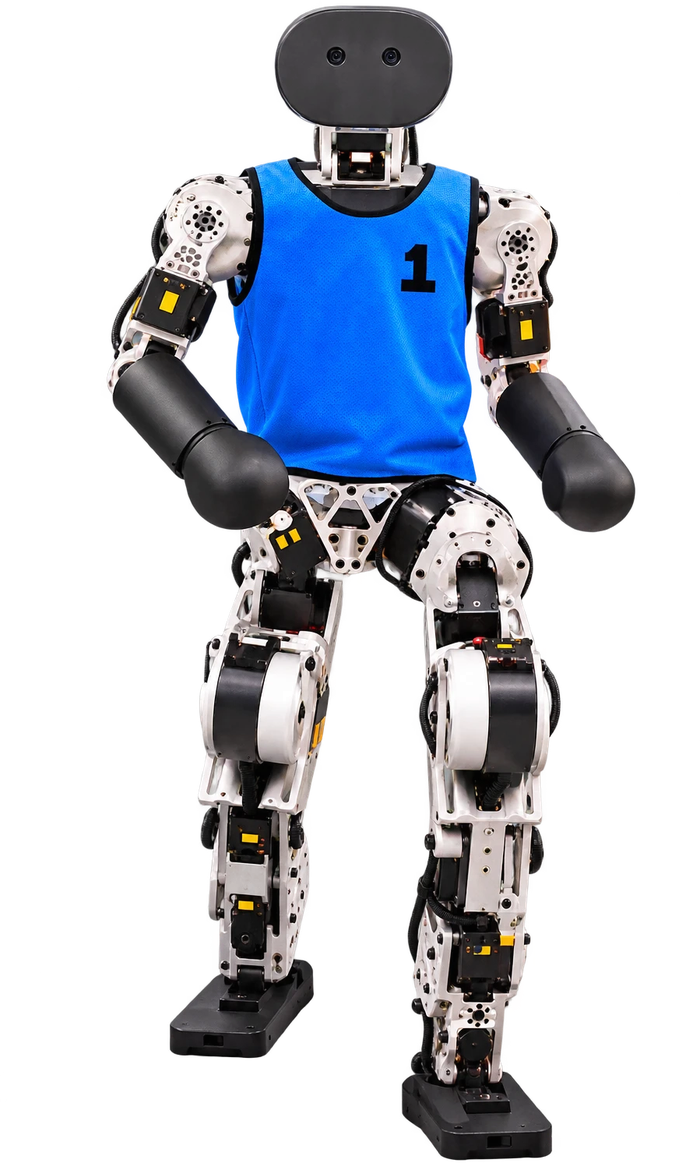
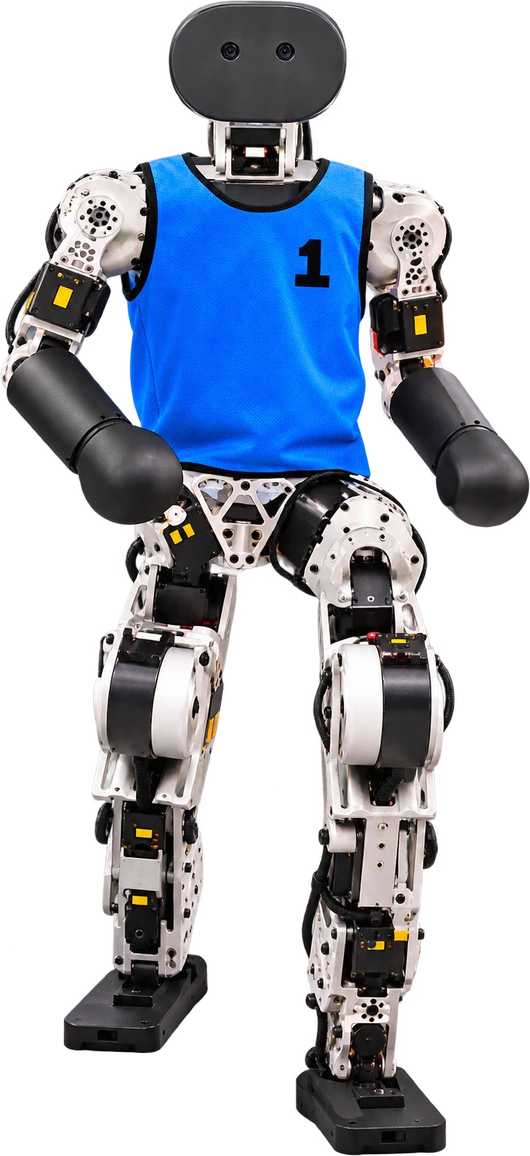
표지 좌표계 단순화 + 배경 잘림 제거
- 에셋 투명 여백 제거(그림 변경 없음), .kv-stage 무대 도입
- 로봇/사람/제목 위치를 전부 화면 기준 단순 %로 변경 (숫자만 고치면 됨)
- 배경 cover -> 100% 100% (잘리지 않고 화면에 맞춤)

diff --git a/index.html b/index.html
@@ -45,52 +45,49 @@
   .when-v{font-size:clamp(12.5px,3.5vw,14.5px);font-weight:700;line-height:1.5;white-space:nowrap}
   .sign{display:block;width:190px;max-width:60%;margin:32px auto 0}
 
-  /* 표지: 포스터 구성을 비율(%)로 배치 — 화면 크기와 무관하게 위치 고정 */
+  /* ===== 표지 =====
+     .kv-stage = 포스터 무대. 기준화면 375x812 비율로 고정되어 있어서
+     아래 숫자들은 전부 "화면 기준 %" 로 읽으면 된다. (1cqh = 화면 높이 1%)
+     위치/크기 조정은 아래 숫자만 바꾸면 됨. */
   .cover{position:relative;width:100%;overflow:hidden;background:#eef4fb;container-type:inline-size}
   .kv{position:relative;width:100%;height:100svh;min-height:560px;
-    /* u = 포스터 기준 1% 높이. 세로로 긴 화면에서는 가로폭에 맞춰 묶어 그룹이 잘리지 않게 함 */
-    --u:min(1svh,2.4cqw);
-    /* 후원사 패널 윗변 = 바닥에서 3.6% + 패널높이(18cqw) */
-    --pt:calc(3.6% + 18cqw);
-    background:#dce9f7 url(kv/bg-campus.jpg) center/cover no-repeat}
+    background:#dce9f7 url(kv/bg-campus.jpg) center/100% 100% no-repeat}
+  .kv-stage{position:absolute;left:50%;bottom:0;transform:translateX(-50%);
+    height:min(100%,216.5cqw);aspect-ratio:375/812;container-type:size}
+  .kv-stage img{position:absolute;width:auto;max-width:none}
+
   /* 좌하단 대각 띠 */
   .kv-stripe{position:absolute;inset:0;pointer-events:none;
     background:linear-gradient(118deg,rgba(26,86,194,.85) 0 7%,rgba(255,255,255,0) 7.2%)}
   .kv-stripe2{position:absolute;inset:0;pointer-events:none;
     background:linear-gradient(118deg,rgba(255,255,255,.75) 0 14%,rgba(255,255,255,0) 14.2%)}
+
+  /* ── 상단 ── */
   .kv-brand{position:absolute;left:6%;top:3.2%;font-size:3.1cqw;letter-spacing:.42em;
     font-weight:600;color:#17357f}
-  .kv-kw{position:absolute;right:5%;top:2.6%;width:20.8%}
-  .kv-title{position:absolute;right:6%;top:calc(11.5*var(--u));height:calc(24*var(--u));width:auto}
-  /* 로봇: 포스터처럼 왼쪽 큰 로봇 + 가운데로 모인 세 대 */
-  /* 레퍼런스 포스터의 피사체 높이·중심좌표를 그대로 옮긴 값 (단위 u) */
-  .kv-r,.kv-people{position:absolute;left:50%;width:auto;max-width:none}
-  .kv-ra{height:calc(59.566*var(--u));margin-left:calc(-28.428*var(--u));
-         bottom:calc(var(--pt) + 3.917*var(--u))}
-  .kv-rb{height:calc(22.337*var(--u));margin-left:calc(-8.909*var(--u));
-         bottom:calc(var(--pt) + 4.624*var(--u))}
-  .kv-people{height:calc(24.869*var(--u));margin-left:calc(-4.800*var(--u));
-         bottom:calc(var(--pt) + 3.789*var(--u))}
-  .kv-rc{height:calc(16.701*var(--u));margin-left:calc(1.995*var(--u));
-         bottom:calc(var(--pt) + 2.571*var(--u))}
-  .kv-rd{height:calc(16.985*var(--u));margin-left:calc(5.458*var(--u));
-         bottom:calc(var(--pt) + 4.377*var(--u))}
+  .kv-stage .kv-kw{position:absolute;right:5%;top:2.6%;width:20.8%}
 
-  /* 하단 선·일시·장소 (포스터 좌표/색/크기) */
+  /* ── 로봇·사람 (높이 / 왼쪽 / 바닥) ── */
+  .kv-ra    {height:59.40%;left: 3.58%;bottom:15.91%}
+  .kv-rb    {height:21.50%;left:37.43%;bottom:17.31%}
+  .kv-people{height:23.63%;left:39.61%;bottom:16.71%}
+  .kv-rc    {height:16.60%;left:57.62%;bottom:14.51%}
+  .kv-rd    {height:16.80%;left:62.40%;bottom:16.41%}
 
-  .kv-rule{display:block;width:100%;height:calc(.139*var(--u));margin:calc(.277*var(--u)) 0 calc(.185*var(--u));background:linear-gradient(90deg,#429eee 0%,#3fa0f7 10%,#6ddff7 25%,#4babf1 38%,#53cbf7 50%,#4eb4f6 62%,#40b2fa 78%,#444fab 88%,#4453c7 100%)}
+  /* ── 제목 / 일시·장소 ── */
+  .kv-title{height:24%;right:6%;top:11.5%}
+  .kv-foot{position:absolute;right:6%;top:36.6%;text-align:right;color:#1e2a89}
   .kv-foot p{margin:0;font-weight:800;line-height:1.35}
+  .kv-date{margin:0;font-weight:800;font-size:1.87cqh;letter-spacing:-.01em}
+  .kv-place{margin:.23cqh 0 0;font-weight:700;font-size:1.76cqh}
+  .kv-rule{display:block;width:100%;height:.14cqh;margin:.28cqh 0 .19cqh;background:linear-gradient(90deg,#429eee 0%,#3fa0f7 10%,#6ddff7 25%,#4babf1 38%,#53cbf7 50%,#4eb4f6 62%,#40b2fa 78%,#444fab 88%,#4453c7 100%)}
+
+  /* ── 하단 후원사 패널 (화면 전체 폭 기준) ── */
   .kv-bottom{position:absolute;left:4.6%;right:4.6%;bottom:3.6%}
-  .kv-foot{position:absolute;right:6%;top:calc(36.6*var(--u));text-align:right;color:#1e2a89}
-  .kv-date{margin:0;font-weight:800;font-size:calc(1.873*var(--u));letter-spacing:-.01em}
-  /* 하단 후원사 패널 */
   .kv-spon{display:flex;flex-direction:column;gap:2.2cqw;background:rgba(255,255,255,.5);border-radius:1.2cqw;padding:2.2cqw 3cqw}
-
-
   .kv-spon-row{display:flex;align-items:center;justify-content:space-between;gap:2.4cqw}
   .kv-spon-row img{height:4.6cqw;width:auto;max-width:100%;display:block;flex:0 1 auto;object-fit:contain}
   .kv-spon-row img.sq{height:6.8cqw}
-  .kv-place{margin:calc(.23*var(--u)) 0 0;font-weight:700;font-size:calc(1.755*var(--u))}
 
   /* 프로그램 */
   .program{list-style:none;margin:0;padding:0}
@@ -163,19 +160,21 @@
     <div class="kv">
       <div class="kv-stripe"></div>
       <div class="kv-stripe2"></div>
-      <span class="kv-brand">2027 ROBOFEST</span>
-      <img class="kv-kw" src="kw-logo.png" alt="광운대학교">
-      <img class="kv-title" src="kv/title-stack-nosub.png?v=1" alt="광운 AI·로봇 미래교육 비전 선포식 &amp; 지역 상생 한마당">
-      <div class="kv-foot">
-        <span class="kv-rule"></span>
-        <p class="kv-date">2026.10.29 (목) 14:00~18:00</p>
-        <p class="kv-place">광운대학교 광운스퀘어</p>
+      <div class="kv-stage">
+        <span class="kv-brand">2027 ROBOFEST</span>
+        <img class="kv-kw" src="kw-logo.png" alt="광운대학교">
+        <img class="kv-people" src="kv/people.png?v=3" alt="">
+        <img class="kv-rb" src="kv/robot-b.png?v=3" alt="">
+        <img class="kv-ra" src="kv/robot-a.png?v=3" alt="">
+        <img class="kv-rc" src="kv/robot-c.png?v=3" alt="">
+        <img class="kv-rd" src="kv/robot-d.png?v=3" alt="">
+        <img class="kv-title" src="kv/title-stack-nosub.png?v=1" alt="광운 AI·로봇 미래교육 비전 선포식">
+        <div class="kv-foot">
+          <span class="kv-rule"></span>
+          <p class="kv-date">2026.10.29 (목) 14:00~18:00</p>
+          <p class="kv-place">광운대학교 광운스퀘어</p>
+        </div>
       </div>
-      <img class="kv-people" src="kv/people.png?v=2" alt="">
-      <img class="kv-r kv-rb" src="kv/robot-b.png?v=2" alt="">
-      <img class="kv-r kv-ra" src="kv/robot-a.png?v=2" alt="">
-      <img class="kv-r kv-rc" src="kv/robot-c.png?v=2" alt="">
-      <img class="kv-r kv-rd" src="kv/robot-d.png?v=2" alt="">
       <div class="kv-bottom">
         <div class="kv-spon">
           <div class="kv-spon-row">
